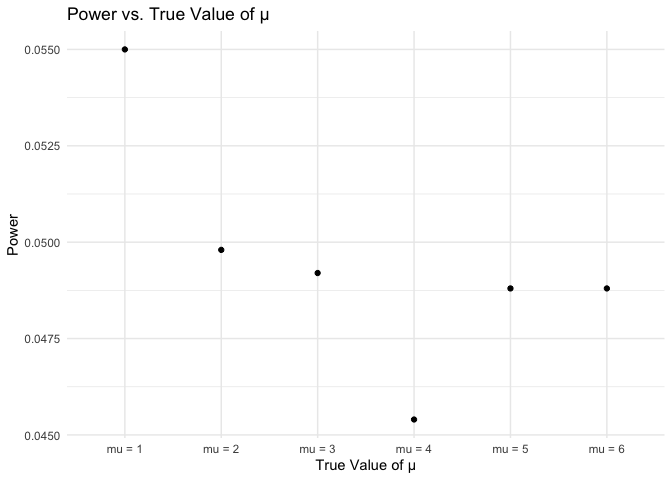
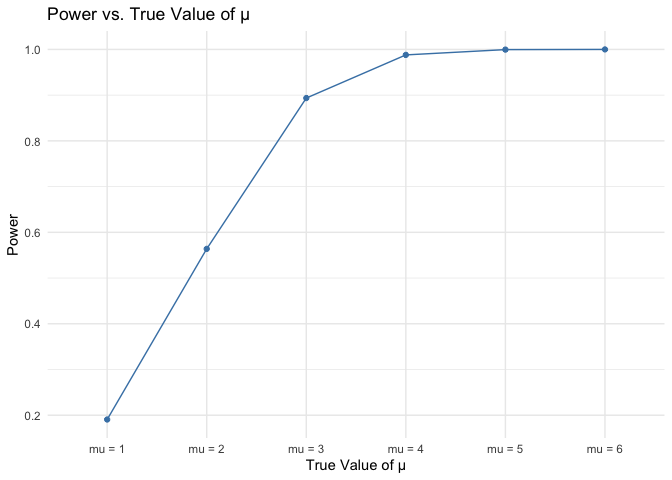
add some comments for the last plot

diff --git a/p8105_hw5_jy3360.md b/p8105_hw5_jy3360.md
@@ -178,8 +178,8 @@ First set the following design elements:
 
 - Fix n = 30
 - Fix $\sigma$ = 5
-- Set $\mu$ = 0. Generate 5000 datasets from the model:
-  $x ∼ Normal [\mu, \sigma]$
+- Set $\mu$ = 0
+- Generate 5000 datasets from the model: $x ∼ normal [\mu, \sigma]$
 - For each dataset, save $\hat{\mu}$ and the p-value arising from a test
   of H: $\mu$ = 0 using $\alpha$ = 0.05
 
@@ -197,41 +197,33 @@ alpha <- 0.05
 # define the simulation function
 simulate_t_test <- function(mu, n, sigma) {
   sample <- rnorm(n, mean = mu, sd = sigma)
-  test_result <- t.test(sample, mu = mu)
-  tidy_result <- broom::tidy(test_result)
-  return(tidy_result[c("estimate", "p.value")])
+  test_result <- t.test(sample, mu = 0, conf.level = 0.95)
+  tidy_result <- broom::tidy(test_result) %>%
+    rename(mu_hat = estimate, p_value = p.value)
+  return(tidy_result[c("mu_hat", "p_value")])
 }
 
-# Run the simulation 5000 times for mu = 0
+# run the simulation 5000 times for mu = 0
 simulation_results <- map_dfr(1:n_simulations, ~simulate_t_test(mu, n, sigma))
 
-# Review the structure of the first few results
+# review the first few results
 head(simulation_results)
 ```
 
     ## # A tibble: 6 × 2
-    ##   estimate p.value
-    ##      <dbl>   <dbl>
-    ## 1   -0.752  0.389 
-    ## 2   -1.63   0.0781
-    ## 3    0.502  0.613 
-    ## 4    0.816  0.477 
-    ## 5    0.289  0.766 
-    ## 6   -0.398  0.649
+    ##   mu_hat p_value
+    ##    <dbl>   <dbl>
+    ## 1  0.337  0.710 
+    ## 2  0.552  0.534 
+    ## 3 -0.364  0.701 
+    ## 4 -0.210  0.771 
+    ## 5  0.353  0.697 
+    ## 6 -1.54   0.0888
 
 Repeat the above for $\mu$ = {1,2,3,4,5,6}, and complete the following:
-
-- Make a plot showing the proportion of times the null was rejected (the
-  power of the test) on the y axis and the true value of $\mu$ on the x
-  axis. Describe the association between effect size and power.
-- Make a plot showing the average estimate of $\hat{\mu}$ on the y axis
-  and the true value of $\mu$ on the x axis.
-- Make a second plot (or overlay on the first) the average estimate of
-  $\hat{\mu}$ only in samples for which the null was rejected on the y
-  axis and the true value of $\mu$ on the x axis.
-- Is the sample average of $\hat{\mu}$ across tests for which the null
-  is rejected approximately equal to the true value of $\mu$? Why or why
-  not?
+Make a plot showing the proportion of times the null was rejected (the
+power of the test) on the y axis and the true value of $\mu$ on the x
+axis. Describe the association between effect size and power.
 
 ``` r
 # create a list with 6 different sample size 
@@ -256,18 +248,18 @@ results %>%
 ```
 
     ## # A tibble: 30,000 × 3
-    ##       mu estimate p.value
-    ##    <dbl>    <dbl>   <dbl>
-    ##  1     1   1.66     0.404
-    ##  2     1  -0.0640   0.186
-    ##  3     1   0.678    0.733
-    ##  4     1   0.938    0.934
-    ##  5     1   1.50     0.503
-    ##  6     1   1.48     0.632
-    ##  7     1   1.96     0.280
-    ##  8     1   0.659    0.618
-    ##  9     1   0.155    0.295
-    ## 10     1   1.42     0.694
+    ##       mu  mu_hat p_value
+    ##    <dbl>   <dbl>   <dbl>
+    ##  1     1  0.537  0.558  
+    ##  2     1  1.54   0.0563 
+    ##  3     1  3.46   0.00152
+    ##  4     1  0.949  0.378  
+    ##  5     1 -0.0680 0.940  
+    ##  6     1  1.88   0.0419 
+    ##  7     1  0.460  0.674  
+    ##  8     1  2.24   0.0380 
+    ##  9     1  1.69   0.0804 
+    ## 10     1  0.824  0.331  
     ## # ℹ 29,990 more rows
 
 ``` r
@@ -275,42 +267,78 @@ results %>%
 power_results <- results %>%
   group_by(mu) %>%
   summarise(
-    power = mean(p.value < alpha),
-    mean_estimate = mean(estimate),
-    mean_estimate_rejected = mean(estimate[p.value < alpha])
+    power = mean(p_value < alpha),
+    mean_mu_hat = mean(mu_hat),
+    mean_mu_rejected = mean(mu_hat[p_value < alpha])
   ) %>%
   ungroup()
 
 
 # plotting
 power_results %>%
-  ggplot(aes(x = mu, y = power)) +
-  geom_point() +
-  geom_line() +
-  theme_minimal() +
-  labs(title = "Power vs. True Value of µ", x = "True Value of µ", y = "Power")
+  ggplot(aes(x = mu, y = power, group = 1)) +
+  geom_point(color = "steelblue") +
+  geom_line(color = "steelblue") +
+  labs(title = "Power vs. True Value of µ", 
+       x = "True Value of µ", 
+       y = "Power")
 ```
 
-    ## `geom_line()`: Each group consists of only one observation.
-    ## ℹ Do you need to adjust the group aesthetic?
-
 ![](p8105_hw5_jy3360_files/figure-gfm/unnamed-chunk-9-1.png)<!-- -->
+
+- The plot shows that as the true value of $\mu$ increases, the power of
+  the test also increases, indicating that larger effect sizes lead to
+  higher power.
+- However, the power plateaus after a certain point, suggesting that
+  there is a maximum level beyond which increases in the effect size do
+  not result in significant gains in power.
+
+Make a plot showing the average estimate of $\hat{\mu}$ on the y axis
+and the true value of $\mu$ on the x axis.
+
+``` r
+power_results %>%
+  ggplot(aes(x = mu, y = mean_mu_hat, group = 1)) +
+  geom_point(color = "darkred") +
+  geom_line(color = "darkred") +
+  labs(title = "Average Estimate of µ_hat vs. True Value of µ", 
+       x = "True Value of µ", 
+       y = "Average Estimate of µ_ha")
+```
+
+![](p8105_hw5_jy3360_files/figure-gfm/unnamed-chunk-10-1.png)<!-- -->
+
+Make a second plot (or overlay on the first) the average estimate of
+$\hat{\mu}$ only in samples for which the null was rejected on the y
+axis and the true value of $\mu$ on the x axis.
 
 ``` r
 power_results %>%
   ggplot(aes(x = mu)) +
-  geom_point(aes(y = mean_estimate), color = "blue") +
-  geom_line(aes(y = mean_estimate), color = "blue") +
-  geom_point(aes(y = mean_estimate_rejected), color = "red") +
-  geom_line(aes(y = mean_estimate_rejected), color = "red") +
-  theme_minimal() +
-  labs(title = "Mean Estimate of µ vs. True Value of µ", x = "True Value of µ", y = "Mean Estimate of µ") +
-  scale_color_manual("", labels = c("All Tests", "Rejected Tests"), values = c("blue", "red"))
+  geom_point(aes(y = mean_mu_hat, group = 1, color = "All Tests")) +
+  geom_line(aes(y = mean_mu_hat, group = 1, color = "All Tests")) +
+  geom_point(aes(y = mean_mu_rejected, group = 1, color = "Rejected Tests")) +
+  geom_line(aes(y = mean_mu_rejected, group = 1, color = "Rejected Tests"))  +
+  scale_color_manual(labels = c("All Tests", "Rejected Tests"), 
+                     values = c("steelblue", "darkred")) +
+  labs(title = "Mean Estimate of µ_hat vs. True Value of µ", 
+       x = "True Value of µ", 
+       y = "Mean Estimate of µ_hat") +
+  theme(legend.title = element_blank())
 ```
 
-    ## `geom_line()`: Each group consists of only one observation.
-    ## ℹ Do you need to adjust the group aesthetic?
-    ## `geom_line()`: Each group consists of only one observation.
-    ## ℹ Do you need to adjust the group aesthetic?
+![](p8105_hw5_jy3360_files/figure-gfm/unnamed-chunk-11-1.png)<!-- -->
 
-![](p8105_hw5_jy3360_files/figure-gfm/unnamed-chunk-9-2.png)<!-- -->
+Is the sample average of $\hat{\mu}$ across tests for which the null is
+rejected approximately equal to the true value of $\mu$? Why or why not?
+
+- The plot indicates that the sample average of $\hat{\mu}$ for rejected
+  tests is consistently higher than the true value of $\mu$, especially
+  for small value of the effect size.
+- This suggests that when the null hypothesis is rejected, the estimate
+  of $\mu$ is biased upwards.
+- This could be due to the phenomenon of ‘regression to the mean’ or a
+  selection bias, where only larger estimates lead to the null being
+  rejected.
+- It is not approximately equal, indicating an overestimation of the
+  true effect when the null is rejected.
